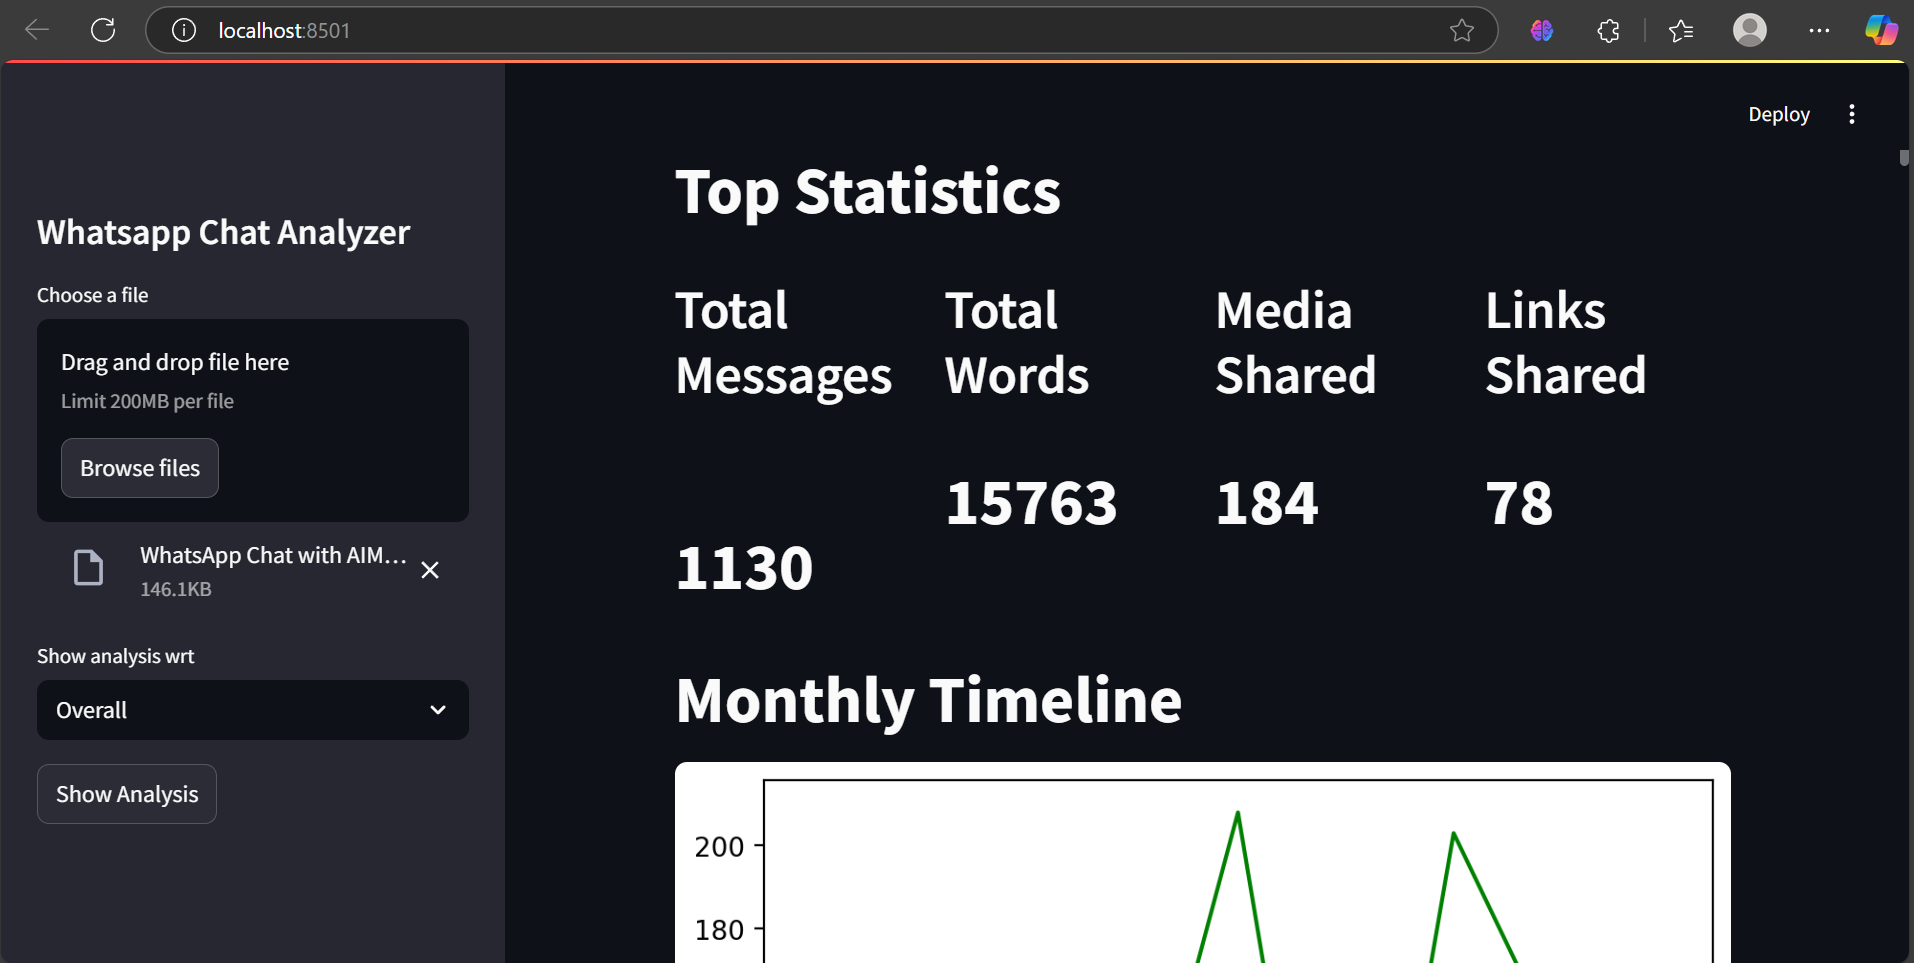
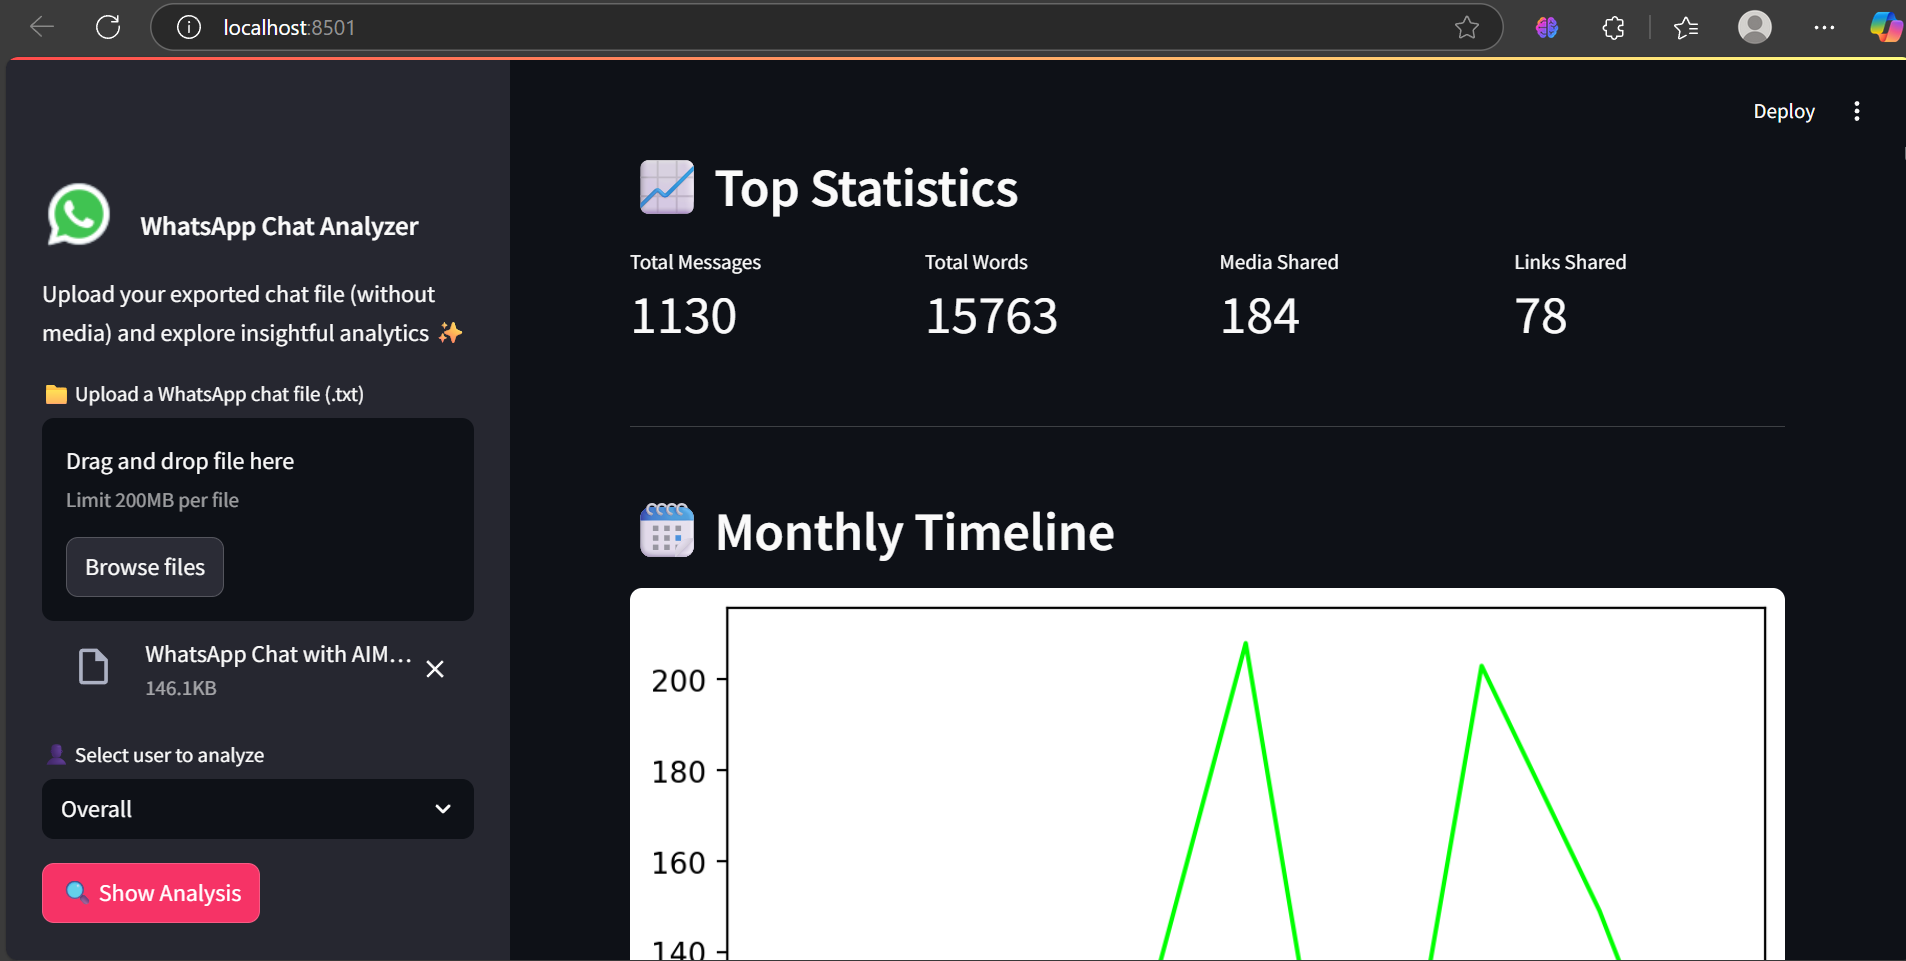
updated code

diff --git a/app.py b/app.py
@@ -1,128 +1,144 @@
 import streamlit as st
-import preprocessor,helper
+import preprocessor, helper
 import matplotlib.pyplot as plt
 import seaborn as sns
 
-st.sidebar.title("Whatsapp Chat Analyzer")
+# Page configuration
+st.set_page_config(page_title="WhatsApp Chat Analyzer", layout="wide")
 
-uploaded_file = st.sidebar.file_uploader("Choose a file")
+# Custom styling
+st.markdown("""
+    <style>
+        .main {
+            background-color: #0e1117;
+            color: white;
+        }
+        .css-1v0mbdj.edgvbvh3 {  # Sidebar style
+            background-color: #1c1e26 !important;
+        }
+        h1, h2, h3, h4 {
+            color: #f63366;
+        }
+        .stButton>button {
+            color: white;
+            background-color: #f63366;
+            border-radius: 8px;
+        }
+        .stButton>button:hover {
+            background-color: #e02e5a;
+        }
+    </style>
+""", unsafe_allow_html=True)
+
+# Sidebar
+# WhatsApp icon and title in one row using columns
+col1, col2 = st.sidebar.columns([0.2, 0.8])
+with col1:
+    st.image("https://img.icons8.com/color/48/whatsapp--v1.png", width=50)  # reduced size for better alignment
+with col2:
+    st.markdown("<h3 style='line-height: 1.6; margin-top: 6px;'>WhatsApp Chat Analyzer</h3>", unsafe_allow_html=True)
+
+st.sidebar.markdown("Upload your exported chat file (without media) and explore insightful analytics ✨")
+
+uploaded_file = st.sidebar.file_uploader("📁 Upload a WhatsApp chat file (.txt)")
+
 if uploaded_file is not None:
     bytes_data = uploaded_file.getvalue()
     data = bytes_data.decode("utf-8")
     df = preprocessor.preprocess(data)
 
-    # fetch unique users
     user_list = df['user'].unique().tolist()
     user_list.remove('group_notification')
     user_list.sort()
-    user_list.insert(0,"Overall")
+    user_list.insert(0, "Overall")
 
-    selected_user = st.sidebar.selectbox("Show analysis wrt",user_list)
+    selected_user = st.sidebar.selectbox("👤 Select user to analyze", user_list)
 
-    if st.sidebar.button("Show Analysis"):
+    if st.sidebar.button("🔍 Show Analysis"):
 
-        # Stats Area
-        num_messages, words, num_media_messages, num_links = helper.fetch_stats(selected_user,df)
-        st.title("Top Statistics")
+        st.markdown("## 📈 Top Statistics")
+        num_messages, words, num_media_messages, num_links = helper.fetch_stats(selected_user, df)
         col1, col2, col3, col4 = st.columns(4)
 
         with col1:
-            st.header("Total Messages")
-            st.title(num_messages)
+            st.metric("Total Messages", num_messages)
         with col2:
-            st.header("Total Words")
-            st.title(words)
+            st.metric("Total Words", words)
         with col3:
-            st.header("Media Shared")
-            st.title(num_media_messages)
+            st.metric("Media Shared", num_media_messages)
         with col4:
-            st.header("Links Shared")
-            st.title(num_links)
+            st.metric("Links Shared", num_links)
 
-        # monthly timeline
-        st.title("Monthly Timeline")
-        timeline = helper.monthly_timeline(selected_user,df)
-        fig,ax = plt.subplots()
-        ax.plot(timeline['time'], timeline['message'],color='green')
+        st.markdown("---")
+        st.markdown("## 🗓 Monthly Timeline")
+        timeline = helper.monthly_timeline(selected_user, df)
+        fig, ax = plt.subplots()
+        ax.plot(timeline['time'], timeline['message'], color='lime')
         plt.xticks(rotation='vertical')
         st.pyplot(fig)
 
-        # daily timeline
-        st.title("Daily Timeline")
+        st.markdown("## 📅 Daily Timeline")
         daily_timeline = helper.daily_timeline(selected_user, df)
         fig, ax = plt.subplots()
-        ax.plot(daily_timeline['only_date'], daily_timeline['message'], color='black')
+        ax.plot(daily_timeline['only_date'], daily_timeline['message'], color='cyan')
         plt.xticks(rotation='vertical')
         st.pyplot(fig)
 
-        # activity map
-        st.title('Activity Map')
-        col1,col2 = st.columns(2)
-
+        st.markdown("## 📊 Activity Map")
+        col1, col2 = st.columns(2)
         with col1:
-            st.header("Most busy day")
-            busy_day = helper.week_activity_map(selected_user,df)
-            fig,ax = plt.subplots()
-            ax.bar(busy_day.index,busy_day.values,color='purple')
+            st.markdown("### 🔁 Busiest Days")
+            busy_day = helper.week_activity_map(selected_user, df)
+            fig, ax = plt.subplots()
+            ax.bar(busy_day.index, busy_day.values, color='violet')
             plt.xticks(rotation='vertical')
             st.pyplot(fig)
 
         with col2:
-            st.header("Most busy month")
+            st.markdown("### 📆 Busiest Months")
             busy_month = helper.month_activity_map(selected_user, df)
             fig, ax = plt.subplots()
-            ax.bar(busy_month.index, busy_month.values,color='orange')
+            ax.bar(busy_month.index, busy_month.values, color='orange')
             plt.xticks(rotation='vertical')
             st.pyplot(fig)
 
-        st.title("Weekly Activity Map")
-        user_heatmap = helper.activity_heatmap(selected_user,df)
-        fig,ax = plt.subplots()
-        ax = sns.heatmap(user_heatmap)
+        st.markdown("### 🧠 Weekly Activity Heatmap")
+        user_heatmap = helper.activity_heatmap(selected_user, df)
+        fig, ax = plt.subplots()
+        ax = sns.heatmap(user_heatmap, cmap='YlGnBu')
         st.pyplot(fig)
 
-        # finding the busiest users in the group(Group level)
         if selected_user == 'Overall':
-            st.title('Most Busy Users')
-            x,new_df = helper.most_busy_users(df)
-            fig, ax = plt.subplots()
-
+            st.markdown("## 👥 Most Active Users")
+            x, new_df = helper.most_busy_users(df)
             col1, col2 = st.columns(2)
-
             with col1:
-                ax.bar(x.index, x.values,color='red')
+                fig, ax = plt.subplots()
+                ax.bar(x.index, x.values, color='red')
                 plt.xticks(rotation='vertical')
                 st.pyplot(fig)
             with col2:
                 st.dataframe(new_df)
 
-        # WordCloud
-        st.title("Wordcloud")
-        df_wc = helper.create_wordcloud(selected_user,df)
-        fig,ax = plt.subplots()
+        st.markdown("## 🌥 WordCloud")
+        df_wc = helper.create_wordcloud(selected_user, df)
+        fig, ax = plt.subplots()
         ax.imshow(df_wc)
         st.pyplot(fig)
 
-        # most common words
-        most_common_df = helper.most_common_words(selected_user,df)
-
-        fig,ax = plt.subplots()
-
-        ax.barh(most_common_df[0],most_common_df[1])
+        st.markdown("## 📝 Most Common Words")
+        most_common_df = helper.most_common_words(selected_user, df)
+        fig, ax = plt.subplots()
+        ax.barh(most_common_df[0], most_common_df[1], color='teal')
         plt.xticks(rotation='vertical')
-
-        st.title('Most commmon words')
         st.pyplot(fig)
 
-        # emoji analysis
-        emoji_df = helper.emoji_helper(selected_user,df)
-        st.title("Emoji Analysis")
-
-        col1,col2 = st.columns(2)
-
+        st.markdown("## 😄 Emoji Analysis")
+        emoji_df = helper.emoji_helper(selected_user, df)
+        col1, col2 = st.columns(2)
         with col1:
             st.dataframe(emoji_df)
         with col2:
-            fig,ax = plt.subplots()
-            ax.pie(emoji_df[1].head(),labels=emoji_df[0].head(),autopct="%0.2f")
+            fig, ax = plt.subplots()
+            ax.pie(emoji_df[1].head(), labels=emoji_df[0].head(), autopct="%0.2f")
             st.pyplot(fig)

diff --git a/helper.py b/helper.py
@@ -1,0 +1,139 @@
+from urlextract import URLExtract
+from wordcloud import WordCloud
+import pandas as pd
+from collections import Counter
+import emoji
+
+extract = URLExtract()
+
+def fetch_stats(selected_user,df):
+
+    if selected_user != 'Overall':
+        df = df[df['user'] == selected_user]
+
+    # fetch the number of messages
+    num_messages = df.shape[0]
+
+    # fetch the total number of words
+    words = []
+    for message in df['message']:
+        words.extend(message.split())
+
+    # fetch number of media messages
+    num_media_messages = df[df['message'] == '<Media omitted>\n'].shape[0]
+
+    # fetch number of links shared
+    links = []
+    for message in df['message']:
+        links.extend(extract.find_urls(message))
+
+    return num_messages,len(words),num_media_messages,len(links)
+
+def most_busy_users(df):
+    x = df['user'].value_counts().head()
+    df = round((df['user'].value_counts() / df.shape[0]) * 100, 2).reset_index().rename(
+        columns={'index': 'name', 'user': 'percent'})
+    return x,df
+
+def create_wordcloud(selected_user,df):
+
+    f = open('stop_hinglish.txt', 'r')
+    stop_words = f.read()
+
+    if selected_user != 'Overall':
+        df = df[df['user'] == selected_user]
+
+    temp = df[df['user'] != 'group_notification']
+    temp = temp[temp['message'] != '<Media omitted>\n']
+
+    def remove_stop_words(message):
+        y = []
+        for word in message.lower().split():
+            if word not in stop_words:
+                y.append(word)
+        return " ".join(y)
+
+    wc = WordCloud(width=500,height=500,min_font_size=10,background_color='white')
+    temp['message'] = temp['message'].apply(remove_stop_words)
+    df_wc = wc.generate(temp['message'].str.cat(sep=" "))
+    return df_wc
+
+def most_common_words(selected_user,df):
+
+    f = open('stop_hinglish.txt','r')
+    stop_words = f.read()
+
+    if selected_user != 'Overall':
+        df = df[df['user'] == selected_user]
+
+    temp = df[df['user'] != 'group_notification']
+    temp = temp[temp['message'] != '<Media omitted>\n']
+
+    words = []
+
+    for message in temp['message']:
+        for word in message.lower().split():
+            if word not in stop_words:
+                words.append(word)
+
+    most_common_df = pd.DataFrame(Counter(words).most_common(20))
+    return most_common_df
+
+def emoji_helper(selected_user,df):
+    if selected_user != 'Overall':
+        df = df[df['user'] == selected_user]
+
+    emojis = []
+    for message in df['message']:
+        emojis.extend([c for c in message if c in emoji.EMOJI_DATA])
+
+    emoji_df = pd.DataFrame(Counter(emojis).most_common(len(Counter(emojis))))
+
+    return emoji_df
+
+def monthly_timeline(selected_user,df):
+
+    if selected_user != 'Overall':
+        df = df[df['user'] == selected_user]
+
+    timeline = df.groupby(['year', 'month_num', 'month']).count()['message'].reset_index()
+
+    time = []
+    for i in range(timeline.shape[0]):
+        time.append(timeline['month'][i] + "-" + str(timeline['year'][i]))
+
+    timeline['time'] = time
+
+    return timeline
+
+def daily_timeline(selected_user,df):
+
+    if selected_user != 'Overall':
+        df = df[df['user'] == selected_user]
+
+    daily_timeline = df.groupby('only_date').count()['message'].reset_index()
+
+    return daily_timeline
+
+def week_activity_map(selected_user,df):
+
+    if selected_user != 'Overall':
+        df = df[df['user'] == selected_user]
+
+    return df['day_name'].value_counts()
+
+def month_activity_map(selected_user,df):
+
+    if selected_user != 'Overall':
+        df = df[df['user'] == selected_user]
+
+    return df['month'].value_counts()
+
+def activity_heatmap(selected_user,df):
+
+    if selected_user != 'Overall':
+        df = df[df['user'] == selected_user]
+
+    user_heatmap = df.pivot_table(index='day_name', columns='period', values='message', aggfunc='count').fillna(0)
+
+    return user_heatmap
